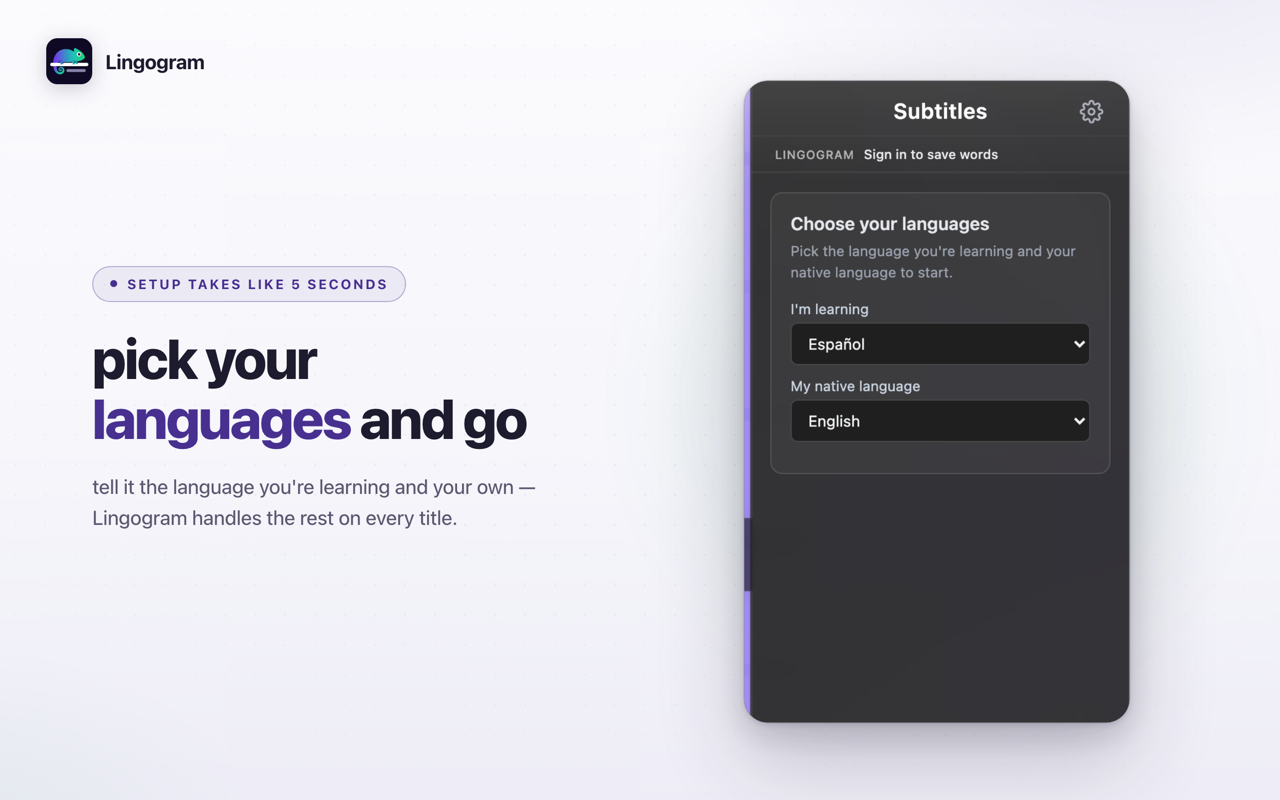
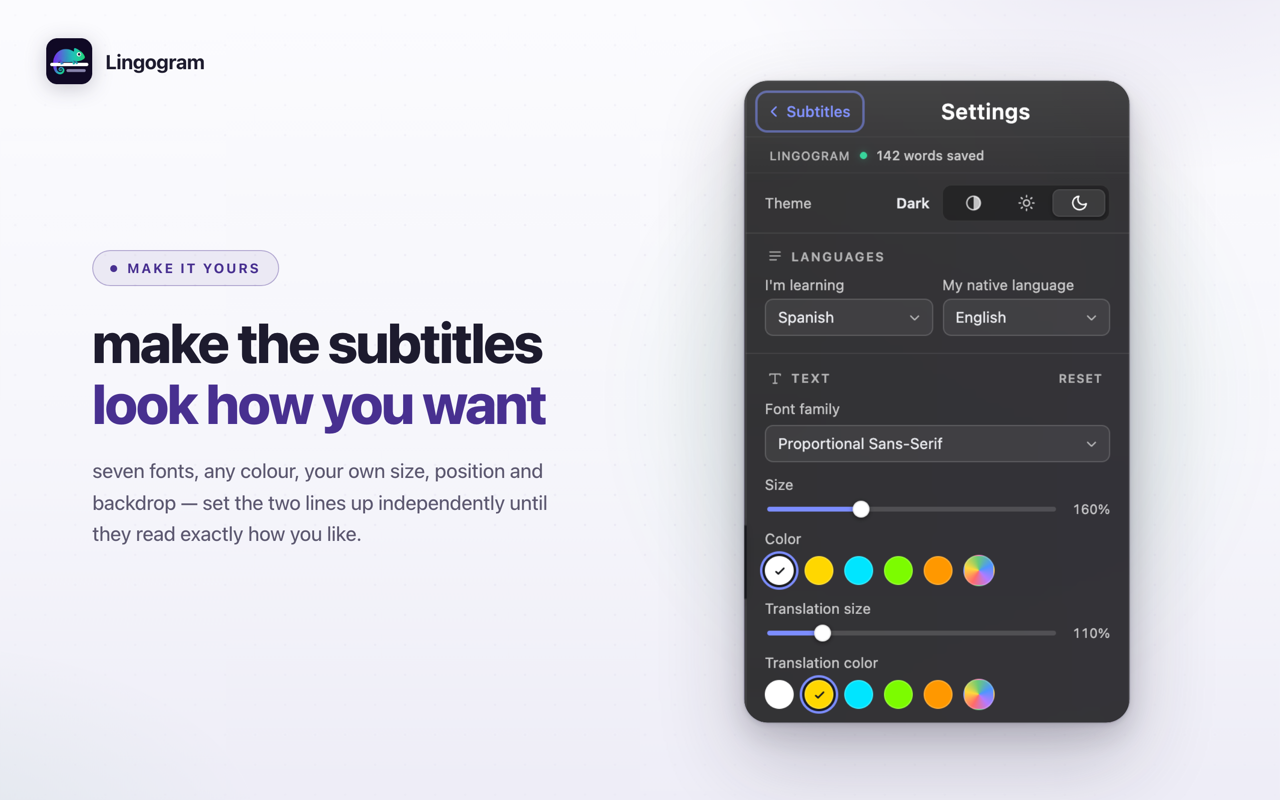
feat(rezka): show the subtitle settings on promo slide 3
Slide 3 used to sell the onboarding language picker, which says little
beyond "it works". Point it at the subtitle settings instead: seven
fonts, colour, size, position and backdrop, with the two lines styled
independently — the part of the extension a reader can't guess is there.

The panel is captured in the dark theme ('settings-dark' is its own
capture kind, not a theme flag, so the light captures the YouTube series
uses stay untouched), and the shot is scaled 1.125 on this slide only so
the crop lands in the gap between rows instead of slicing the opacity
label through its descenders.

Copy updated in all three locales; the promo PNGs are regenerated.

diff --git a/apps/rezka/promo/slide3.html b/apps/rezka/promo/slide3.html
@@ -1,19 +1,18 @@
 <!DOCTYPE html><html lang="en"><head><meta charset="UTF-8" />
 <link rel="stylesheet" href="promo.css" /></head>
 <body class="theme-3">
-  <div class="slide slide--side">
+  <div class="slide slide--side slide--settings">
     <div class="bg"></div>
     <div class="brand"><img src="brand-tile.png" alt="" /><span>Lingogram</span></div>
     <div class="copy">
-      <span class="eyebrow">ACTIVE RECALL, BUILT IN</span>
-      <h1>Listen first,<br><span class="hl">then check yourself</span></h1>
-      <p>The listening challenge hides each line until you reveal it — train your ear on real speech instead of just reading along.</p>
+      <span class="eyebrow">MAKE IT YOURS</span>
+      <h1>make the subtitles<br><span class="hl">look how you want</span></h1>
+      <p>seven fonts, any colour, your own size, position and backdrop — set the two lines up independently until they read exactly how you like.</p>
     </div>
     <div class="stage">
       <div class="panel">
-        <div class="shot" style="background-image:url('../screenshots/out-live/live-demo-guess-en.png'); left:-1058px; top:0;"></div>
+        <div class="shot" style="background-image:url('../screenshots/out-live/live-demo-settings-dark-en.png'); left:-1080px; top:0;"></div>
       </div>
-      <div class="callout" style="left:48px; bottom:-18px;"><kbd>Shift</kbd><span class="plus">+</span><kbd>G</kbd> listening challenge</div>
     </div>
   </div>
 </body></html>

diff --git a/apps/rezka/promo/promo.css b/apps/rezka/promo/promo.css
@@ -170,6 +170,21 @@ body { font-family: var(--font); -webkit-font-smoothing: antialiased; }
   background-repeat: no-repeat;
   background-size: 1418px 886px;
 }
+/* Settings panel (slide 3) only: the shot is scaled 1.125 instead of the 1.108
+ * the other slides use. That is the YouTube series' scale, and it is not a
+ * cosmetic difference here — at 1.108 the frame's bottom edge lands at capture
+ * row 1083, which is the middle of the opacity row, so the label is sliced
+ * through its descenders. At 1.125 the edge falls at row 1067, inside the quiet
+ * band between rows (1052..1117 in all three locales), so the panel ends on a
+ * gap and reads as scrolling on rather than cut.
+ *
+ * Scoped to this slide because the other four crops were measured against
+ * 1.108; changing the shared value would shift every one of them. */
+.slide--settings .panel .shot {
+  width: 1440px; height: 900px;     /* 1280×800 × 1.125 */
+  background-size: 1440px 900px;
+}
+
 /* subtle glass top highlight on the device */
 .panel::after {
   content: ""; position: absolute; inset: 0; pointer-events: none;
